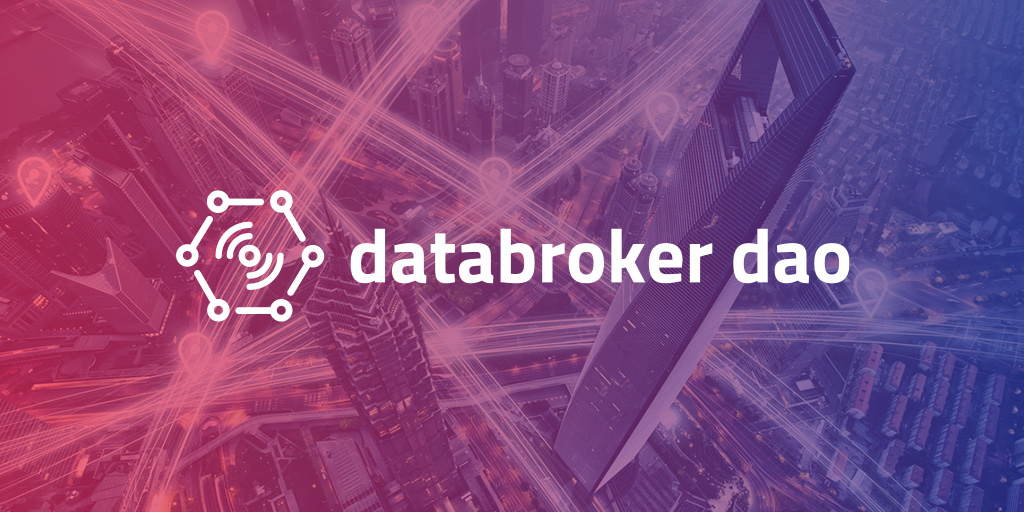
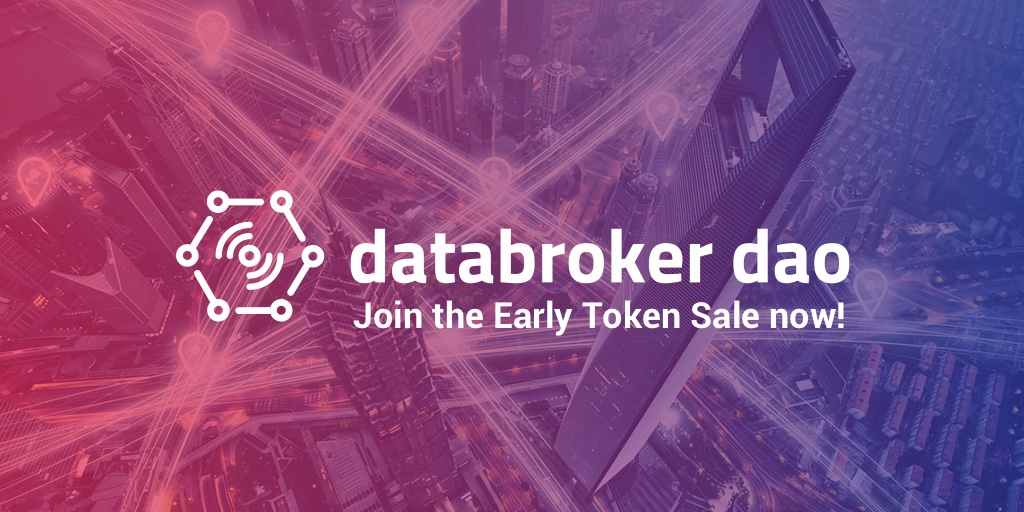
feat: metadata and share image

Changed region(s): [[0.3438, 0.5938, 0.8438, 0.6562]]

diff --git a/public/index.html b/public/index.html
@@ -7,19 +7,21 @@
   <meta name="viewport" content="width=device-width, initial-scale=1.0">
 
   <!-- ==== META TAGS + OG - START ==== -->
-  <title>DataBrokerDAO - Distributed Marketplace for IoT Sensor Data</title>
+  <title>DataBrokerDAO &middot; Distributed Marketplace for IoT Sensor Data &middot; Join the Early Token Sale for a 20% discount!</title>
   <meta name="description" content="Enabling the monetisation of IoT sensor data, turning sunk costs into perpetual revenue streams">
   <meta name="twitter:card" content="summary_large_image" />
   <meta name="twitter:site" content="@DataBrokerDAO" />
   <meta name="twitter:creator" content="@SettleMintIO" />
-  <meta name="twitter:title" content="DataBroker DAO &middot; Distributed marketplace for IoT sensor data" />
+  <meta name="twitter:title" content="DataBroker DAO &middot; Distributed marketplace for IoT sensor data &middot; Join the Early Token Sale for a 20% discount! "
+  />
   <meta name="twitter:url" content="https://databrokerdao.com/" />
   <meta name="twitter:description" content="Enabling the monetisation of IoT sensor data, turning sunk costs into perpetual revenue streams."
   />
   <meta name="twitter:image" content="https://databrokerdao.com/assets/img/social.jpg" />
-  <meta name="twitter:image:alt" content="DataBroker DAO &middot; Distributed marketplace for IoT sensor data" />
+  <meta name="twitter:image:alt" content="DataBroker DAO &middot; Distributed marketplace for IoT sensor data &middot; Join the Early Token Sale for a 20% discount!"
+  />
   <meta property="og:type" content="website">
-  <meta property="og:title" content="DataBroker DAO &middot; Distributed marketplace for IoT sensor data">
+  <meta property="og:title" content="DataBroker DAO &middot; Distributed marketplace for IoT sensor data &middot; Join the Early Token Sale for a 20% discount!">
   <meta property="og:description" content="Enabling the monetisation of IoT sensor data, turning sunk costs into perpetual revenue streams.">
   <meta property="og:url" content="https://databrokerdao.com/" />
   <meta property="og:image" content="https://databrokerdao.com/assets/img/social.jpg">
